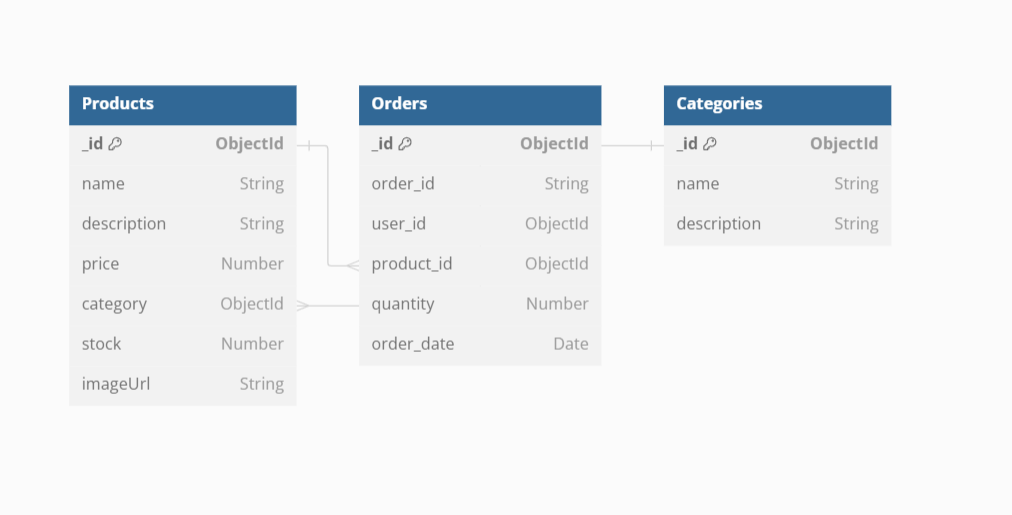
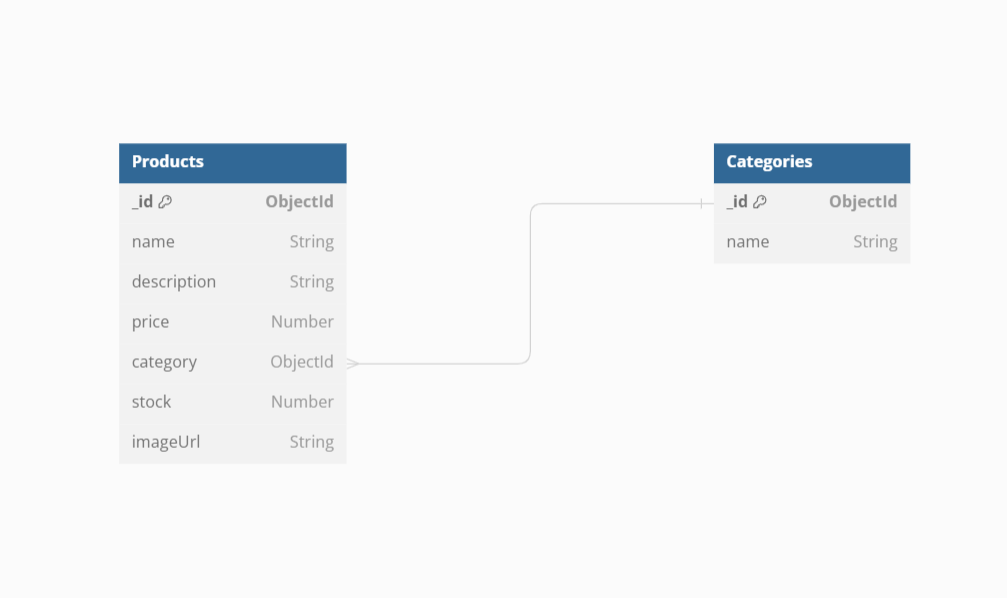
Readme file Updated

diff --git a/frontend/src/components/NavBar.css b/frontend/src/components/NavBar.css
@@ -1,37 +1,51 @@
-.navbar {
-    padding: 10px 20px;
-    display: flex;
-    align-items: center;
-    justify-content: space-between;
-}
-
-.navbar-brand {
-    color: #f4eeff;
-    margin: 0;
-    font-family: 'Arial', sans-serif;
-}
-
-.navbar-links {
-    list-style-type: none;
+body {
+    font-family: Arial, sans-serif;
     margin: 0;
     padding: 0;
+    box-sizing: border-box;
+  }
+  
+  .App-header {
+    background-color: #424874;
+    padding: 20px;
+    color: white;
+  }
+  
+  .navbar {
     display: flex;
-    gap: 15px;
-}
-
-.navbar-links li {
-    display: inline;
-}
-
-.navbar-links li a {
-    color: #ede4d6;
-    padding: 10px 15px;
-    border-radius: 5px;
-    font-family: 'Arial', sans-serif;
+    justify-content: space-between;
+    align-items: center;
+    width: 100%;
+  }
+  
+  .navbar-logo {
+    flex: 1;
+  }
+  
+  .navbar-links {
+    flex: 2;
+    display: flex;
+    justify-content: center;
+    list-style: none;
+    margin: 0;
+    padding: 0;
+    gap: 10px;
+  }
+  
+  .navbar-links li {
+    margin: 0;
+  }
+  
+  .navbar-links a {
+    color: white;
     text-decoration: none;
+    padding: 8px 16px;
+    background-color: #62a29a;
+    border-radius: 4px;
     transition: background-color 0.3s;
-}
-
-.navbar-links li a:hover {
+  }
+  
+  .navbar-links a:hover {
     background-color: #10443e;
-}
+  }
+  

diff --git a/README.md b/README.md
@@ -1,3 +1,4 @@
+
 # **E-Commerce Project using MERN**
 
 **Student Name:** Ankit Hiteshkumar Dave
@@ -26,22 +27,81 @@
 - `stock: Number`
 - `imageUrl: String`
 
-## Orders Schema (MongoDB)
-- `order_id: String`
-- `user_id: String`
-- `product_id: String`
-- `quantity: Number`
-- `order_date: Date`
-
 ## Categories Schema (MongoDB)
 - `name: String`
-- `description: String`
+
 -------------------------------------------------------------------------------------
+
+# AD's WatchStore
+
+AD's WatchStore is an e-commerce platform for browsing and purchasing watches. The project is built using React and includes various components for different pages and functionalities.
+
+## Prerequisites
+
+- Node.js
+- npm
+- MongoDB Atlas account
+
+## Installation
+
+1. Clone the repository:
+   \`\`\`bash
+   git clone https://github.com/ankitdave677/ecommerce-project
+   \`\`\`
+2. Navigate to the project directory:
+   \`\`\`bash
+   cd backend
+   \`\`\`
+   Navigate to the project directory:
+   \`\`\`bash
+   cd frontend
+   \`\`\`
+3. Install the dependencies in both the project directory:
+   \`\`\`bash
+   npm install
+   \`\`\`
+
+---------------------------------------------------------------------------------------------------------------------------------------
+
+### Environment Variables
+
+## Create a .env file in the backend directory and add the following environment variables:
+
+\`\`\`
+MONGO_URI=your_mongodb_atlas_connection_string
+PORT=5000
+\`\`\`
+
+---------------------------------------------------------------------------------------------------------------------------------------
+
+## Usage
+
+1. Start the development server:
+   \`\`\`bash
+   npm start
+   \`\`\`
+2. Open your browser and go to \`http://localhost:3000\`.
+
+---------------------------------------------------------------------------------------------------------------------------------------
+
+### Frontend Structure
+
+- \`HomePage.js\`: Displays the homepage of the watch store.
+- \`CategoryPage.js\`: Displays a list of categories. Each category links to a list of products.
+- \`ProductDetail.js\`: Displays detailed information about a specific product.
+- \`ProductList.js\`: Displays a list of products in a selected category.
+- \`Cart.js\`: Displays the items in the shopping cart.
+- \`NavBar.js\`: Displays the navigation bar with links to Home, Shop, and Cart.
+- \`Footer.js\`: Displays the footer of the website.
+
+---------------------------------------------------------------------------------------------------------------------------------------
 
 # GitHub Repository
 
-**GitHub Repo Link:** https://github.com/ankitdave677/ecommerce-project
+**GitHub Repo Link:** [ecommerce-project](https://github.com/ankitdave677/ecommerce-project)
+
 --------------------------------------------------------------------------------------
 
 # Visual Representation of Database Schema
+
 ![Database Schema](./DatabaseSchema.png)
